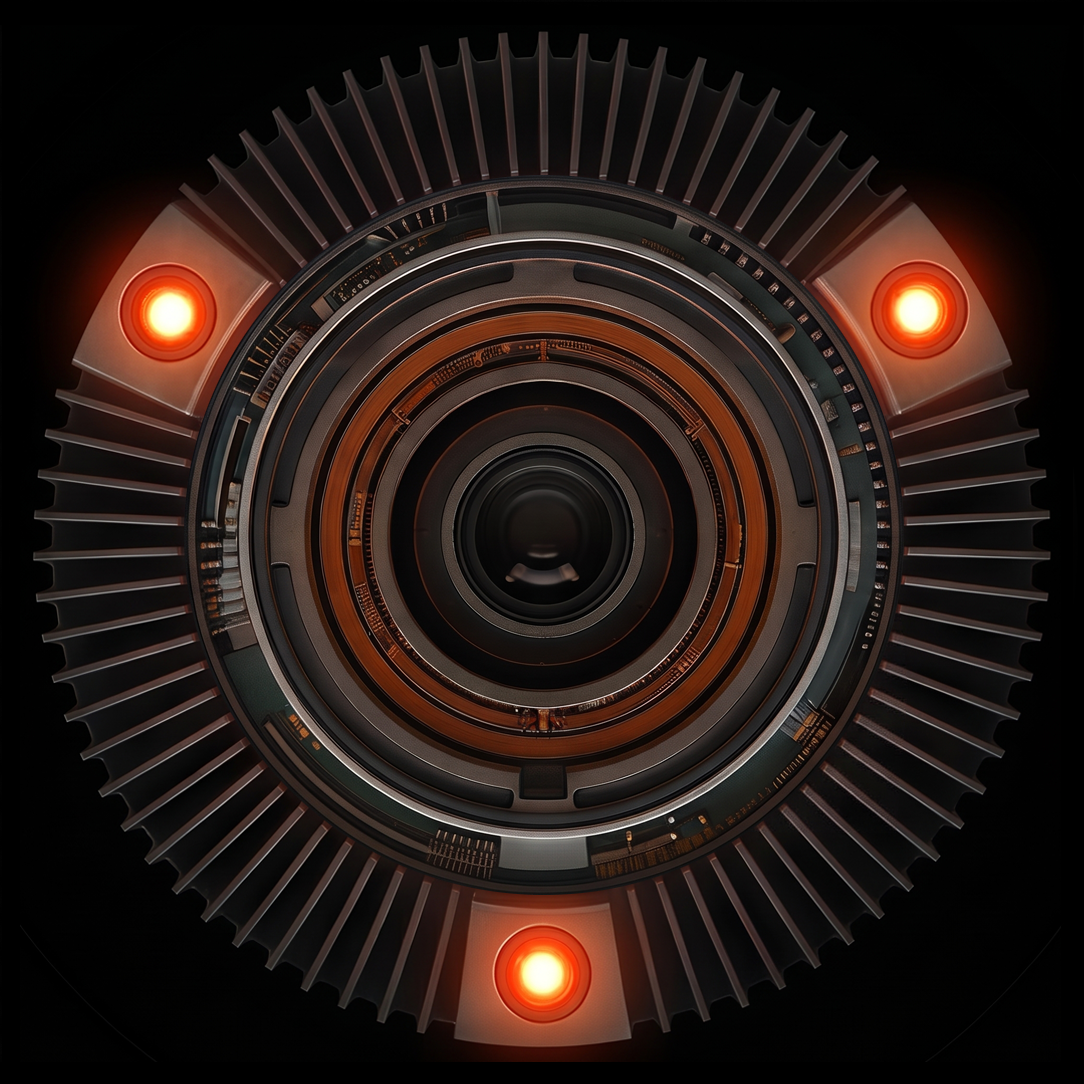
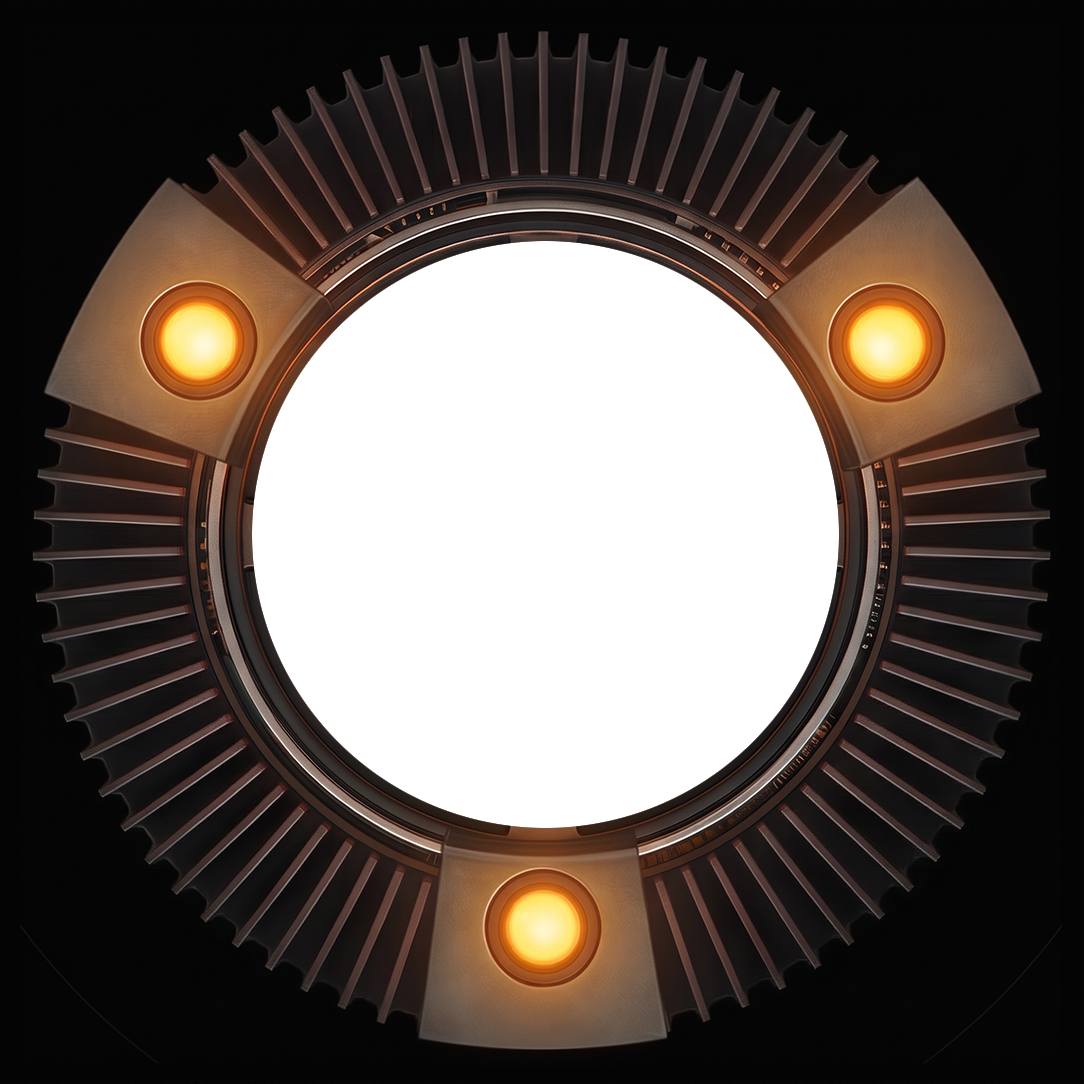
feat: update optical layers from new PSD and scale assembly +10% while maintaining centering

diff --git a/frontend/dist/assets/index-BdgFXSST.css b/frontend/dist/assets/index-BdgFXSST.css
@@ -1,0 +1,1 @@
+:root{--bg-color: #000000;--text-color: #e0e0e0;--accent-red: #ff2200;--hal-core-yellow: #ffee55;--hal-glow-red: #e60000}*{box-sizing:border-box;margin:0;padding:0;-webkit-touch-callout:none;-webkit-user-select:none;user-select:none}html,body{width:100vw;height:100vh;height:100dvh;overflow:hidden;background-color:var(--bg-color);color:var(--text-color);font-family:-apple-system,BlinkMacSystemFont,SF Pro Display,Segoe UI,Roboto,Helvetica,Arial,sans-serif;position:fixed}#app{width:100%;height:100%;position:relative;display:flex;justify-content:center;align-items:center;background-color:#000}#hal-stage{width:100%;height:100%;display:flex;justify-content:center;align-items:center;position:relative;overflow:hidden;touch-action:manipulation}#hal-container{position:relative;display:flex;justify-content:center;align-items:center;width:100vw;height:100vh;transform:translateY(-146.67px)}#hal-2026-assembly{position:absolute;top:50%;left:50%;transform:translate(-50%,-50%);width:min(98.62vw,61.05vh);height:min(98.62vw,61.05vh);display:flex;justify-content:center;align-items:center;pointer-events:none}.hal2026-layer{position:absolute;top:0;left:0;width:100%;height:100%;object-fit:contain;pointer-events:none;will-change:opacity;transform:translateZ(0)}#layer-everything-off{z-index:1;opacity:1}#layer-3-led-on{z-index:2;opacity:0;transition:opacity .15s ease-out}#layer-center-on{z-index:3;opacity:1;transition:opacity .08s ease-out}#layer-ring-on{z-index:4;opacity:0;transition:opacity .12s ease-out}body.mode-enclosure #hal-container,body.mode-enclosure #hal-2026-assembly,body.mode-enclosure #hal-stage{border:none!important;outline:none!important;box-shadow:none}#init-overlay{position:fixed;top:0;left:0;width:100vw;height:100vh;background-color:transparent;z-index:99999;cursor:pointer;-webkit-tap-highlight-color:transparent}#init-overlay.fade-out{opacity:0;pointer-events:none;display:none!important}body.sleep-mode{background-color:#000}body.sleep-mode #layer-center-on,body.sleep-mode #layer-ring-on,body.sleep-mode #layer-3-led-on{opacity:0!important;transition:opacity 2.5s ease-in-out!important}body.sleep-mode #layer-everything-off{opacity:.15!important;transition:opacity 2.5s ease-in-out!important}

diff --git a/frontend/dist/index.html b/frontend/dist/index.html
@@ -24,8 +24,8 @@
   <link rel="apple-touch-icon" sizes="512x512" href="/icon-512x512.png?v=3" />
   <link rel="apple-touch-icon-precomposed" href="/apple-touch-icon-precomposed.png?v=3" />
 
-  <script type="module" crossorigin src="/assets/index-B7yibVqP.js"></script>
-  <link rel="stylesheet" crossorigin href="/assets/index-XoLhrnwO.css">
+  <script type="module" crossorigin src="/assets/index-BxDHrvDC.js"></script>
+  <link rel="stylesheet" crossorigin href="/assets/index-BdgFXSST.css">
 </head>
 <body>
   <div id="app">

diff --git a/frontend/style.css b/frontend/style.css
@@ -67,8 +67,8 @@ html, body {
   top: 50%;
   left: 50%;
   transform: translate(-50%, -50%);
-  width: min(89.65vw, 55.5vh);
-  height: min(89.65vw, 55.5vh);
+  width: min(98.62vw, 61.05vh);
+  height: min(98.62vw, 61.05vh);
   display: flex;
   justify-content: center;
   align-items: center;
